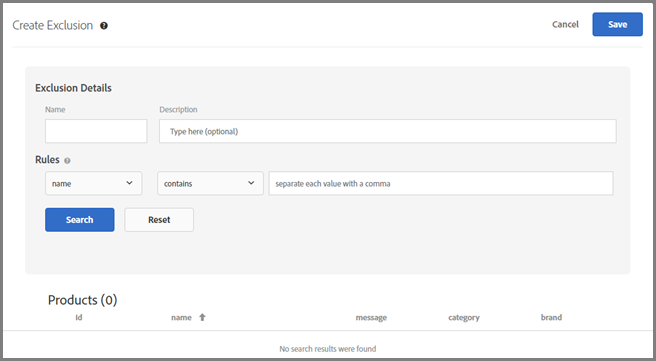
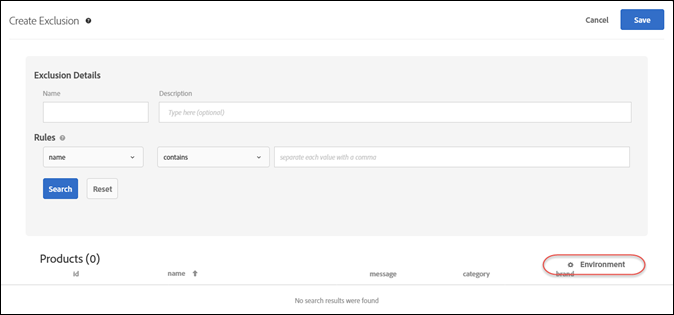
fingers crossed

diff --git a/help/c-recommendations/plan-implement.md b/help/c-recommendations/plan-implement.md
@@ -23,11 +23,11 @@ What you need to know before creating a [!DNL Recommendations] activity.
 
 | Step | Information | Details |
 |--- |--- |--- |
-|![Step 1](/help/c-recommendations/assets/step1_red.png)|JavaScript library|Each page requires a reference to  at.js  version 0.9.1 (or later) or  mbox.js  version 55 (or later). This implementation step is required on all pages where a  Target  activity will be used, and can include keys such as a product or category ID.<BR>For information about at.js, see [at.js Implementation](/help/c-implementing-target/c-implementing-target-for-client-side-web/t-mbox-download/c-target-atjs-implementation/target-atjs-implementation.md).<br>For more information about mbox.js, see [Mbox.js Implementation](/help/c-implementing-target/c-implementing-target-for-client-side-web/t-mbox-download/mbox-download.md).|
-|![Step 2](/help/c-recommendations/assets/step2_red.png)|Keys|The key determines the type of product or content that displays in your recommendations. For example, the key might be a product category. See [Base the Recommendation on a Recommendation Key](/help/c-recommendations/c-algorithms/create-new-algorithm.md#task_2B0ED54AFBF64C56916B6E1F4DC0DC3B).|
-|![Step 3](/help/c-recommendations/assets/step3_red.png)|Attributes|Attributes provide more specific information about the products you want to display. For example, you might want to show products within a certain price range, or items that meet an inventory threshold. Attributes can be provided in the mbox or through a [feed](/help/c-recommendations/c-products/feeds.md).<br>See [Inclusion Rules](/help/c-recommendations/c-algorithms/create-new-algorithm.md#task_28DB20F968B1451481D8E51BAF947079) and [Entity Attributes](/help/c-recommendations/c-products/entity-attributes.md).|
-|![Step 4](/help/c-recommendations/assets/step4_red.png)|Exclusions|Exclusions determine which specific items do not appear in your recommendations.<br>See [Exclusions](/help/c-recommendations/c-products/exclusions.md).|
-|![Step 5](/help/c-recommendations/assets/step5_red.png)|Purchase deals|Purchase details provide information about purchased items and the order when the purchase has been completed.|
+|![Step 1](/c-recommendations/assets/step1_red.png) |JavaScript library|Each page requires a reference to  at.js  version 0.9.1 (or later) or  mbox.js  version 55 (or later). This implementation step is required on all pages where a  Target  activity will be used, and can include keys such as a product or category ID.<BR>For information about at.js, see [at.js Implementation](/help/c-implementing-target/c-implementing-target-for-client-side-web/t-mbox-download/c-target-atjs-implementation/target-atjs-implementation.md).<br>For more information about mbox.js, see [Mbox.js Implementation](/help/c-implementing-target/c-implementing-target-for-client-side-web/t-mbox-download/mbox-download.md).|
+|![Step 2](/c-recommendations/assets/step2_red.png)|Keys|The key determines the type of product or content that displays in your recommendations. For example, the key might be a product category. See [Base the Recommendation on a Recommendation Key](/help/c-recommendations/c-algorithms/create-new-algorithm.md#task_2B0ED54AFBF64C56916B6E1F4DC0DC3B).|
+|![Step 3](/c-recommendations/assets/step3_red.png)|Attributes|Attributes provide more specific information about the products you want to display. For example, you might want to show products within a certain price range, or items that meet an inventory threshold. Attributes can be provided in the mbox or through a [feed](/help/c-recommendations/c-products/feeds.md).<br>See [Inclusion Rules](/help/c-recommendations/c-algorithms/create-new-algorithm.md#task_28DB20F968B1451481D8E51BAF947079) and [Entity Attributes](/help/c-recommendations/c-products/entity-attributes.md).|
+|![Step 4](/c-recommendations/assets/step4_red.png)|Exclusions|Exclusions determine which specific items do not appear in your recommendations.<br>See [Exclusions](/help/c-recommendations/c-products/exclusions.md).|
+|![Step 5](/c-recommendations/assets/step5_red.png)|Purchase deals|Purchase details provide information about purchased items and the order when the purchase has been completed.|
 
 ## Base Implementation {#concept_D1154A3FB0FB4467A29AD2BDD21C82D5}
 
@@ -216,6 +216,6 @@ The following options are available:
 |Custom Global Mbox|(Optional) Specify the custom global mbox used to serve [!DNL Target] activities. By default, the global mbox used by [!DNL Target}  is used for [!DNL Recommendations].<br>Note: This option is set on the [!DNL Target] [!UICONTROL Setup] page. Open [!DNL Target], then click [!UICONTROL Setup].|
 |Industry Vertical|The industry vertical is used to help categorize your recommendations criteria. This helps members of your team find criteria that make sense for a particular page, such as criteria that are best for the shopping cart page or for a media page.|
 |Filter Incompatible Criteria|Enable this option to show only those criteria where the selected page passes the required data. Not every criteria will run correctly on every page. The page or mbox needs to pass in `entity.id` or `entity.categoryId` for the current item/current category recommendations to be compatible. In general, it is best to show only compatible criteria. However, if you want incompatible criteria to be available for the activity, uncheck this option.<br>It is recommended that you disable this option if using a tag management solution.<br>For more information about this option, see [Recommendations FAQ](/help/c-recommendations/c-recommendations-faq/recommendations-faq.md).|
-|Default Host Group|Select your default host group. None means that your  Default Host Group for Reporting  setting in  Target Classic  is used for your default host group.<br>The host group provides the environment where the products are hosted. You can only preview from one given host group at a time. The numbers and update information that show in the Collection list all come from that host group. Likewise, the delivery depends on your host group.<br>If you don't see your products, make sure that you are using the correct host group. For example, if you set up your recommendation to use a staging environment and you set your host group to Staging, you might need to re-create your collections in the staging environment for the products to show.<br>To see which products are available in each environment, use Catalog Search with each environment.<br>For more information about host groups, see [Hosts](/help/administrating-target/hosts.md).|
+|Default Host Group|Select your default host group. None means that your Default Host Group for Reporting setting in Target Classic is used for your default host group.<br>The host group can be used to separate the available items in your catalog for different uses. For example, you can use host groups for Development and Production environments, different brands, or different geographies. By default, preview results in Catalog Search, Collections, and Exclusions are based on the default host group. (You can also select a different host group to preview results, by using the Environment filter.) By default, newly added items are available in all host groups unless an environment ID is specified when creating or updating the item. Delivered recommendations depend on the host group specified in the request.<br>If you don't see your products, make sure that you are using the correct host group. For example, if you set up your recommendation to use a staging environment and you set your host group to Staging, you might need to re-create your collections in the staging environment for the products to show. To see which products are available in each environment, use Catalog Search with each environment. You can also preview the contents of Recommendations collections and exclusions for a selected environment (host group).<br>**Note:** After changing the selected environment, you must click Search to update the returned results.<br>The [!UICONTROL Environment] filter is available from the following places in the [!DNL Target] UI:<ul><li>Catalog Search ([!UICONTROL Recommendations > Catalog Search)</li><li>Create Collection dialog box ([!UICONTROL Recommendations > Collections > Create New])</li><li>Update Collection dialog box ([!UICONTROL Recommendations > Collections > Edit])</li><li>Create Exclusion dialog box ([!UICONTROL Recommendations > Exclusions > Create New])</li><li>Update Exclusion dialog box ([!UICONTROL Recommendations > Exclusions > Edit])</li></ul>For more information, see [Hosts](/help/administrating-target/hosts.md).|
 |Thumbnail Base URL|Setting a base URL for your product catalog makes it possible to use relative URLs when specifying thumbnails of your products when passing in your thumbnail URL.<br>For example:<br>`"entity.thumbnailURL=/Images/Homepage/product1.jpg"`<br>sets a URL relative to the thumbnail base URL.|
 |Recommendation API Token|Use this token in Recommendations API calls, such as the Download API.|

diff --git a/help/r-release-notes/release-notes.md b/help/r-release-notes/release-notes.md
@@ -20,51 +20,26 @@ Be aware of the following important announcements:
 * [!DNL Target] and the [!DNL Adobe Marketing Cloud] will drop support for Microsoft Internet Explorer 11 starting in March 2019. This change affects [!DNL Target] authoring only; this change does not affect experience delivery. Please switch to Microsoft Edge or another browser. For more information, see [Supported browsers](/help/c-implementing-target/c-considerations-before-you-implement-target/supported-browsers.md).
 * Starting with the [!DNL Target] 18.4.1 release (April 25, 2018), [!DNL Target] had taken steps to move towards TLS 1.2 encryption. The final date to completely phase out support for TLS 1.0 encryption is **February 20, 2019**. With this change, [!DNL Adobe] will no longer collect data from end users with older devices or web browsers that do not support TLS 1.1 or later. We do not expect this to have a significant impact to customer data or reporting. Migrating to TLS 1.2 provides improved security. It is important that you go through the specifics and plan out the changes for a smooth transition. For more information, see [TLS (Transport Layer Security) Encryption Changes](/help/c-implementing-target/c-considerations-before-you-implement-target/tls-transport-layer-security-encryption.md).
 
-## Platform (November 15, 2018) {#section_484A56774E004282B98FFFF851E4E670}
+## [!DNL at.js] version 1.6.4 (January 11, 2019)
 
-<table id="table_7320E43397D2471FA313A9D6FC21E55F"> 
- <thead> 
-  <tr> 
-   <th colname="col1" class="entry"> Feature / Enhancement </th> 
-   <th colname="col2" class="entry"> Description </th> 
-  </tr>
- </thead>
- <tbody> 
-  <tr> 
-   <td colname="col1"> <p>at.js 1.6.3 </p> </td> 
-   <td colname="col2"> <p>at.js version 1.6.3 is now available. </p> <p> 
-     <ul id="ul_2C7CB74B1AAF4B52B6EB382977F7DC28"> 
-      <li id="li_07CF8EDB25E24A7AB9B7A0F3402BAEB1"> <p>Selectors are now CSS-escaped if they contain IDs or CSS classes that start with a digit, two hyphens, or a hyphen followed by a digit (for example #-123). (TNT-31061) </p> </li> 
-      <li id="li_6504E90D7C534A1BB9A2DE8510CE3B90"> <p>Fixed an issue introduced with at.js 1.6.2 where Visual Experience Composer (VEC) offers from different activities that apply to the same CSS selector did not respect activity priority. (TNT-31052) </p> </li> 
-      <li id="li_D347CA513F1240E4BF79D757287AB30C"> <p>Fixed an issue with timing out a promise in environments where there was no native support for promises. (TNT-30974) </p> </li> 
-      <li id="li_17F41A84CCFF41D7993E35DE10F87066"> <p>Issues are now correctly captured and reported via the content-rendering failed event. Previously, JavaScript might have been reported to have run successfully, even if that wasn't the case. (TNT-30599) </p> </li> 
-     </ul> </p> <p>For more information, see <a href="../c-implementing-target/c-implementing-target-for-client-side-web/target-atjs-versions.md#reference_DBB5EDB79EC44E558F9E08D4774A0F7A" format="dita" scope="local"> at.js Version Details</a>. </p> </td> 
-  </tr> 
- </tbody> 
-</table>
+[!DNL at.js] 1.6.4 is a maintenance release and addresses the following issue:
 
-## Target Standard/Premium 18.11.1 (November 12, 2018) {#section_6BBA8B1EE9D241C28E12856A375E97F6}
+* Fixed a race condition manifesting in Microsoft Internet Explorer 11 that caused duplicate offers to be applied.
 
-The [!DNL Target] Standard/Premium release on November 12 includes back-end enhancements, fixes, and changes. The [!UICONTROL Personalization Insights] reports will be available November 14.
+## [!DNL Target] Standard/Premium 19.1.1 (January 22, 2019) {#section_6BBA8B1EE9D241C28E12856A375E97F6}
 
-<table id="table_EF529199D1C741F7BDBC9C41A37B7D26"> 
- <thead> 
-  <tr> 
-   <th colname="col1" class="entry"> Feature / Enhancement </th> 
-   <th colname="col2" class="entry"> Description </th> 
-  </tr>
- </thead>
- <tbody> 
-  <tr> 
-   <td colname="col1" class="premium"> <p>Personalization Insights reports </p> <p> <p>Note:  Available November 14, 2018. </p> </p> </td> 
-   <td colname="col2"> <p>Two specialized reports are available to users of <span class="wintitle"> Automated Personalization (AP)</span> and <span class="wintitle"> Auto-Target (AT)</span> activities: </p> <p> 
-     <ul id="ul_C338AC34C57C49E1A8DFA471167EC40A"> 
-      <li id="li_2329BFC8CC524EBBA99C2F8EDC745B90"> <p><b><span class="wintitle"> Automated Segments</span>:</b> Different visitors respond differently to the offers/experiences in your AP/AT activity. This report shows how different automated segments defined by Target's personalization models responded to the offers/experiences in the activity. </p> </li> 
-      <li id="li_48556C9BAD48476DA00DD666F5265E2B"> <p><b><span class="wintitle"> Important Attributes</span>:</b> In different activities, different attributes are more, or less, important to how the model decides to personalize. This report shows the top attributes that influenced the model and their relative importance. </p> </li> 
-     </ul> </p> <p>See <a href="../c-reports/c-personalization-insights-reports/personalization-insights-reports.md#concept_A897070E1EDC403EB84CFB7A6ECAD767" format="dita" scope="local"> Personalization Insights reports</a>. </p> </td> 
-  </tr> 
- </tbody> 
-</table>
+This release includes the following features, changes and enhancements:
+
+(The issue numbers in parentheses are for internal Adobe use.)
+
+| Feature / Enhancement | Description |
+| --- | --- |
+| ![Target Premium badge](/help/assets/premium.png)<br/>[!UICONTROL Enterprise Permissions] support in [!DNL Target] APIs | [!DNL Adobe Target] APIs can now leverage the power of [!UICONTROL Enterprise Permissions] just like the [!DNL Target] UI. Currently, [!DNL Target] APIs deal only with the default workspace if you are leveraging [!UICONTROL Enterprise Permissions] features. However, you can now work with [!DNL Target] APIs (Activity, Offers, Audiences, and Reporting) across all workspaces. Resources (activities, audiences, and offers) created using these upgraded APIs will show up in respective workspaces in the [!DNL Target Standard/Premium] interface as well.<br/>**Note:** This feature will be available starting January 31, 2019 after the [!DNL Adobe] I/O APIs are updated. Support for [!UICONTROL Automated Personalization] (AP) activities will come in next release. |
+| ![Target Premium badge](/help/assets/premium.png)<br/>[!UICONTROL Recommendations]: filter collections and exclusions by environment (host group) | You can now preview the contents of [!UICONTROL Recommendations] collections and exclusions for a selected environment (host group).<br/>Previously, when you viewed a collection or exclusion, the displayed items contained were results for the default host group (specified in [!UICONTROL Recommendations > Settings > Default Host Group]).<br/>Now, when creating or updating a collection or exclusion, you can use the [!UICONTROL Environment] selector to choose the environment to preview results for. The new [!UICONTROL Environment] filter saves you time and effort because you no longer need to navigate to the [!UICONTROL Settings] page to select the appropriate default host group before creating or editing collections and exclusions.<br/>**Note:** After changing the selected environment, you must click [!UICONTROL Search] to update the returned results.<br/>The new [!UICONTROL Environment] filter is available from the following places in the [!DNL Target] UI:<ul><li>[!UICONTROL Catalog Search] ([!UICONTROL Recommendations > Catalog Search])</li><li>[!UICONTROL Create Collection] dialog box ([!UICONTROL Recommendations > Collections > Create New])</li><li>[!UICONTROL Update Collection] dialog box ([!UICONTROL Recommendations > Collections > Edit])</li><li>[!UICONTROL Create Exclusion] dialog box ([!UICONTROL Recommendations > Exclusions > Create New])</li><li>[!UICONTROL Update Exclusion] dialog box ([!UICONTROL Recommendations > Exclusions > Edit])</li></ul><br>For more information, see the following topics:<uL><li>[Collections](/c-recommendations/c-products/collections.md)</li><li>[Exclusions](/c-recommendations/c-products/exclusions.md)</li><li>[Catalog Search](/c-recommendations/c-products/catalog-search.md)</li><li>[Settings](/c-recommendations/plan-implement.md#concept_C1E1E2351413468692D6C21145EF0B84)</li><li>[Recommendations: filter collections and exclusions by environment (host group)](/administrating-target/hosts.md)</li></ul>(TGT-20622)</ul>|
+
+**Enhancement, fixes, and changes**
+
+* You are now instructed to re-authenticate when your session expires while reviewing a report. After you log in again, you are directed back to the report. (TGT-32723)
 
 ## Release Notes for Other Adobe Target Capabilities {#section_9EB425262A1947D18953F98CF3D4EE71}
 

diff --git a/help/r-release-notes/release-notes-for-previous-releases.md b/help/r-release-notes/release-notes-for-previous-releases.md
@@ -13,23 +13,63 @@ uuid: a1f0ddae-39f1-4e28-bf86-03e82e3cb91e
 
 Release notes for previous Target releases, including release notes for Target Standard/Premium, the Target platform, and the Target Javascript libraries (at.js and mbox.js). Release notes are arraigned in descending order by month and year of release.
 
-## Release notes for previous releases {#topic_607D0324907E472EA3682033A27B5F07}
-
-Release notes for previous Target releases, including release notes for Target Standard/Premium, the Target platform, and the Target Javascript libraries (at.js and mbox.js). Release notes are arraigned in descending order by month and year of release.
-
 >[!NOTE]
 >
 >See [Target release notes (current)](../r-release-notes/release-notes.md#reference_8FE40B43A5A34DDF8F26A53D55EE036A) for information about the current month's Target releases (platform and Target Standard/Premium).
 
 ## Release notes - 2018 {#reference_36ACC83E135A41F28104C44755C26D5B}
 
+### Platform (November 15, 2018) {#section_484A56774E004282B98FFFF851E4E670}
+
+<table id="table_7320E43397D2471FA313A9D6FC21E55F"> 
+ <thead> 
+  <tr> 
+   <th colname="col1" class="entry"> Feature / Enhancement </th> 
+   <th colname="col2" class="entry"> Description </th> 
+  </tr>
+ </thead>
+ <tbody> 
+  <tr> 
+   <td colname="col1"> <p>at.js 1.6.3 </p> </td> 
+   <td colname="col2"> <p>at.js version 1.6.3 is now available. </p> <p> 
+     <ul id="ul_2C7CB74B1AAF4B52B6EB382977F7DC28"> 
+      <li id="li_07CF8EDB25E24A7AB9B7A0F3402BAEB1"> <p>Selectors are now CSS-escaped if they contain IDs or CSS classes that start with a digit, two hyphens, or a hyphen followed by a digit (for example #-123). (TNT-31061) </p> </li> 
+      <li id="li_6504E90D7C534A1BB9A2DE8510CE3B90"> <p>Fixed an issue introduced with at.js 1.6.2 where Visual Experience Composer (VEC) offers from different activities that apply to the same CSS selector did not respect activity priority. (TNT-31052) </p> </li> 
+      <li id="li_D347CA513F1240E4BF79D757287AB30C"> <p>Fixed an issue with timing out a promise in environments where there was no native support for promises. (TNT-30974) </p> </li> 
+      <li id="li_17F41A84CCFF41D7993E35DE10F87066"> <p>Issues are now correctly captured and reported via the content-rendering failed event. Previously, JavaScript might have been reported to have run successfully, even if that wasn't the case. (TNT-30599) </p> </li> 
+     </ul> </p> <p>For more information, see <a href="../c-implementing-target/c-implementing-target-for-client-side-web/target-atjs-versions.md#reference_DBB5EDB79EC44E558F9E08D4774A0F7A" format="dita" scope="local"> at.js Version Details</a>. </p> </td> 
+  </tr> 
+ </tbody> 
+</table>
+
+### Target Standard/Premium 18.11.1 (November 12, 2018) {#section_6BBA8B1EE9D241C28E12856A375E97F6}
+
+The [!DNL Target] Standard/Premium release on November 12 includes back-end enhancements, fixes, and changes. The [!UICONTROL Personalization Insights] reports will be available November 14.
+
+<table id="table_EF529199D1C741F7BDBC9C41A37B7D26"> 
+ <thead> 
+  <tr> 
+   <th colname="col1" class="entry"> Feature / Enhancement </th> 
+   <th colname="col2" class="entry"> Description </th> 
+  </tr>
+ </thead>
+ <tbody> 
+  <tr> 
+   <td colname="col1" class="premium"> <p>Personalization Insights reports </p> <p> <p>Note:  Available November 14, 2018. </p> </p> </td> 
+   <td colname="col2"> <p>Two specialized reports are available to users of <span class="wintitle"> Automated Personalization (AP)</span> and <span class="wintitle"> Auto-Target (AT)</span> activities: </p> <p> 
+     <ul id="ul_C338AC34C57C49E1A8DFA471167EC40A"> 
+      <li id="li_2329BFC8CC524EBBA99C2F8EDC745B90"> <p><b><span class="wintitle"> Automated Segments</span>:</b> Different visitors respond differently to the offers/experiences in your AP/AT activity. This report shows how different automated segments defined by Target's personalization models responded to the offers/experiences in the activity. </p> </li> 
+      <li id="li_48556C9BAD48476DA00DD666F5265E2B"> <p><b><span class="wintitle"> Important Attributes</span>:</b> In different activities, different attributes are more, or less, important to how the model decides to personalize. This report shows the top attributes that influenced the model and their relative importance. </p> </li> 
+     </ul> </p> <p>See <a href="../c-reports/c-personalization-insights-reports/personalization-insights-reports.md#concept_A897070E1EDC403EB84CFB7A6ECAD767" format="dita" scope="local"> Personalization Insights reports</a>. </p> </td> 
+  </tr> 
+ </tbody> 
+</table>
+
 ### Target Standard/Premium 18.10.1 (October 24, 2018) {#section_FA37BF4E840B424E8BC4791D7234FE2A}
 
 This release includes the following features and enhancements:
 
->[!NOTE]
->
->The issue numbers in parentheses are for internal Adobe use.
+(The issue numbers in parentheses are for internal Adobe use.)
 
 <table id="table_B1911F55CCE1428881D258380A8254A9"> 
  <thead> 
@@ -320,7 +360,7 @@ This release includes the following enhancement:
 
   For more information, see [Mobile](../c-target/c-audiences/c-target-rules/mobile.md#concept_2A794199DC1A4D349FFFBC7DCF1FEB89). (TNT-26714 & TNT-28288)
 
-## Target Download API (June 5, 2018) {#section_B8729DA10F18433C8D8E01B04F308ED2}
+### Target Download API (June 5, 2018) {#section_B8729DA10F18433C8D8E01B04F308ED2}
 
 You can use the recommendations download API to download your recommendations in a .CSV file that can be viewed in a spreadsheet or text editor. For improved security, starting on **June 5, 2018**, Target will block HTTP requests and allow only HTTPS requests.
 
@@ -2865,7 +2905,7 @@ This release includes the following new features:
 
 * Fixed an error that resulted in removed items continuing to be displayed.
 
-## Adobe Target Standard 14.5 (May 28, 2014) {#section_530EAB9376414D4989CA0740361DDCC2}
+### Adobe Target Standard 14.5 (May 28, 2014) {#section_530EAB9376414D4989CA0740361DDCC2}
 
 This release includes the following bug fixes:
 

diff --git a/help/r-release-notes/target-release-notes.md b/help/r-release-notes/target-release-notes.md
@@ -36,12 +36,12 @@ Be aware of the following important announcements:
 
 This release includes the following features, changes and enhancements:
 
-Note: The issue numbers in parentheses are for internal Adobe use.
+(The issue numbers in parentheses are for internal Adobe use.)
 
 | Feature / Enhancement | Description |
 | --- | --- |
 | ![Target Premium badge](/help/assets/premium.png)<br/>[!UICONTROL Enterprise Permissions] support in [!DNL Target] APIs | [!DNL Adobe Target] APIs can now leverage the power of [!UICONTROL Enterprise Permissions] just like the [!DNL Target] UI. Currently, [!DNL Target] APIs deal only with the default workspace if you are leveraging [!UICONTROL Enterprise Permissions] features. However, you can now work with [!DNL Target] APIs (Activity, Offers, Audiences, and Reporting) across all workspaces. Resources (activities, audiences, and offers) created using these upgraded APIs will show up in respective workspaces in the [!DNL Target Standard/Premium] interface as well.<br/>**Note:** This feature will be available starting January 31, 2019 after the [!DNL Adobe] I/O APIs are updated. Support for [!UICONTROL Automated Personalization] (AP) activities will come in next release. |
-| ![Target Premium badge](/help/assets/premium.png)<br/>[!UICONTROL Recommendations]: filter collections and exclusions by environment (host group) | You can now preview the contents of [!UICONTROL Recommendations] collections and exclusions for a selected environment (host group).<br/>Previously, when you viewed a collection or exclusion, the displayed items contained were results for the default host group (specified in [!UICONTROL Recommendations > Settings > Default Host Group]).<br/>Now, when creating or updating a collection or exclusion, you can use the [!UICONTROL Environment] selector to choose the environment to preview results for. The new [!UICONTROL Environment] filter saves you time and effort because you no longer need to navigate to the [!UICONTROL Settings] page to select the appropriate default host group before creating or editing collections and exclusions.<br/>**Note:** After changing the selected environment, you must click [!UICONTROL Search] to update the returned results.<br/>The new [!UICONTROL Environment] filter is available from the following places in the [!DNL Target] UI:<ul><li>[!UICONTROL Create Collection] dialog box ([!UICONTROL Recommendations > Collections > Create New])</li><li>[!UICONTROL Update Collection] dialog box ([!UICONTROL Recommendations > Collections > Edit])</li><li>[!UICONTROL Create Exclusion] dialog box ([!UICONTROL Recommendations > Exclusions > Create New])</li><li>[!UICONTROL Update Exclusion] dialog box ([!UICONTROL Recommendations > Exclusions > Edit])</li></ul><br>(TGT-20622) |
+| ![Target Premium badge](/help/assets/premium.png)<br/>[!UICONTROL Recommendations]: filter collections and exclusions by environment (host group) | You can now preview the contents of [!UICONTROL Recommendations] collections and exclusions for a selected environment (host group).<br/>Previously, when you viewed a collection or exclusion, the displayed items contained were results for the default host group (specified in [!UICONTROL Recommendations > Settings > Default Host Group]).<br/>Now, when creating or updating a collection or exclusion, you can use the [!UICONTROL Environment] selector to choose the environment to preview results for. The new [!UICONTROL Environment] filter saves you time and effort because you no longer need to navigate to the [!UICONTROL Settings] page to select the appropriate default host group before creating or editing collections and exclusions.<br/>**Note:** After changing the selected environment, you must click [!UICONTROL Search] to update the returned results.<br/>The new [!UICONTROL Environment] filter is available from the following places in the [!DNL Target] UI:<ul><li>[!UICONTROL Catalog Search] ([!UICONTROL Recommendations > Catalog Search])</li><li>[!UICONTROL Create Collection] dialog box ([!UICONTROL Recommendations > Collections > Create New])</li><li>[!UICONTROL Update Collection] dialog box ([!UICONTROL Recommendations > Collections > Edit])</li><li>[!UICONTROL Create Exclusion] dialog box ([!UICONTROL Recommendations > Exclusions > Create New])</li><li>[!UICONTROL Update Exclusion] dialog box ([!UICONTROL Recommendations > Exclusions > Edit])</li></ul><br>For more information, see the following topics:<uL><li>[Collections](/c-recommendations/c-products/collections.md)</li><li>[Exclusions](/c-recommendations/c-products/exclusions.md)</li><li>[Catalog Search](/c-recommendations/c-products/catalog-search.md)</li><li>[Settings](/c-recommendations/plan-implement.md#concept_C1E1E2351413468692D6C21145EF0B84)</li><li>[Recommendations: filter collections and exclusions by environment (host group)](/administrating-target/hosts.md)</li></ul>(TGT-20622)</ul>|
 
 **Enhancement, fixes, and changes**
 

diff --git a/help/administrating-target/hosts.md b/help/administrating-target/hosts.md
@@ -188,12 +188,6 @@ You can delete an environment when it is no longer needed.
 
 Best practices for managing and troubleshooting hosts in [!DNL Adobe Target].
 
-<!-- 
-
-ov2/c_hosts_best-practices-and-troubleshooting.xml
-
- -->
-
 Try the following troubleshooting tips if you experience problems with your hosts:
 
 **Host does not appear in mbox list for your account.**
@@ -208,4 +202,28 @@ A domain appears in this list if a call to [!DNL Target] is made from the domain
 
 **My mbox call returns /&#42; no display - unauthorized mbox host &#42;/.**
 
-If an mbox call is made on an unauthorized host, the call will respond with /&#42; no display - unauthorized mbox host &#42;/. 
+If an mbox call is made on an unauthorized host, the call will respond with /&#42; no display - unauthorized mbox host &#42;/.
+
+## Recommendations: filter collections and exclusions by environment (host group)
+
+![Premium badge](/assets/premium.png)
+
+You can preview the contents of Recommendations collections and exclusions for a selected environment (host group).
+
+>[!NOTE]
+>Recommendations activities are available as part of the Target Premium solution. They are not available in Target Standard without a Target Premium license.
+
+The host group can be used to separate the available items in your catalog for different uses. For example, you can use host groups for Development and Production environments, different brands, or different geographies. By default, preview results in Catalog Search, Collections, and Exclusions are based on the default host group. (You can also select a different host group to preview results, by using the Environment filter.) By default, newly added items are available in all host groups unless an environment ID is specified when creating or updating the item. Delivered recommendations depend on the host group specified in the request.
+
+If you don't see your products, make sure that you are using the correct host group. For example, if you set up your recommendation to use a staging environment and you set your host group to Staging, you might need to re-create your collections in the staging environment for the products to show. To see which products are available in each environment, use Catalog Search with each environment. You can also preview the contents of Recommendations collections and exclusions for a selected environment (host group).
+
+>[!NOTE]
+>After changing the selected environment, you must click Search to update the returned results.
+
+The Environment filter is available from the following places in the Target UI:
+
+* Catalog Search ([!UICONTROL Recommendations > Catalog Search])
+* Create Collection dialog box ([!UICONTROL Recommendations > Collections > Create New])
+* Update Collection dialog box ([!UICONTROL Recommendations > Collections > Edit])
+* Create Exclusion dialog box ([!UICONTROL Recommendations > Exclusions > Create New])
+* Update Exclusion dialog box ([!UICONTROL Recommendations > Exclusions > Edit])

diff --git a/help/c-recommendations/c-products/collections.md b/help/c-recommendations/c-products/collections.md
@@ -41,17 +41,9 @@ When you are creating or editing a [!DNL Recommendations] activity, the collecti
 
 Create a collection to organize the products you want to show in your recommendations.
 
-<!-- 
-
-recs/t_create_collection.xml
-
- -->
-
 1. Click **[!UICONTROL Recommendations]** > **[!UICONTROL Collections]** to display the list of existing collections.
 
-   >[!NOTE]
-   >
-   >The "Number of Items" reported for each collection on the [!UICONTROL Collections] list view is the number of products matching the rules for that collection within the configured default Recommendations host group (environment). See [Settings](../../c-recommendations/plan-implement.md#concept_C1E1E2351413468692D6C21145EF0B84) to change the default host group.
+   The "Number of Items" reported for each collection on the [!UICONTROL Collections] list view is the number of products matching the rules for that collection within the configured default Recommendations [host group](/administrating-target/hosts.md) (environment). See [Settings](../../c-recommendations/plan-implement.md#concept_C1E1E2351413468692D6C21145EF0B84) to change the default host group.
 
    ![](assets/collections_list.png)
 
@@ -59,14 +51,20 @@ recs/t_create_collection.xml
 
    ![Step Result](assets/CreateCollection.png)
 
+1. (Conditional) Choose an environment from the **[!UICONTROL Environment]** filter while creating (or updating) a collection to preview the contents of the collection in that environment. By default, results from the default host group are displayed.
+
+   ![Create Collection](/c-recommendations/c-products/assets/CreateCollection.png)
+
 1. Type a **[!UICONTROL Name]** for the collection.
 
-   You can also enter an optional **[!UICONTROL Description]**. 
+   You can also enter an optional **[!UICONTROL Description]**.
+
 1. Set the rules used to build the collection.
 
    For example, your collection might be built around a product ID or category, margin, or any other parameter in the list.
 
-   You can add rules to use multiple parameters to define a collection. Multiple rules are joined with an AND. All specified rules must be matched for the collection to apply. 
+   You can add rules to use multiple parameters to define a collection. Multiple rules are joined with an AND. All specified rules must be matched for the collection to apply.
+
 1. Click **[!UICONTROL Save]**.
 You can also create collections using Advanced Search on the Catalog Search page ([!UICONTROL Recommendations] > [!UICONTROL Catalog Search] > [!UICONTROL Advanced Search]). After creating a search using "id > contains," for example, you can then click [!UICONTROL Save As] > [!UICONTROL Collection].
 

diff --git a/help/c-recommendations/c-products/exclusions.md b/help/c-recommendations/c-products/exclusions.md
@@ -19,9 +19,7 @@ Create an exclusion list to prevent items from being recommended.
 
 1. Click **[!UICONTROL Recommendations]** > **[!UICONTROL Exclusions]** to display the list of existing exclusions.
 
-   >[!NOTE]
-   >
-   >The "Number of Items" reported for each exclusion on the [!UICONTROL Exclusions] list view is the number of products matching the rules for that exclusion within the configured default Recommendations host group (environment). See [Settings](../../c-recommendations/plan-implement.md#concept_C1E1E2351413468692D6C21145EF0B84) to change the default host group.
+   The "Number of Items" reported for each exclusion on the [!UICONTROL Exclusions] list view is the number of products matching the rules for that exclusion within the configured default Recommendations [host group](/administrating-target/hosts.md) (environment). See [Settings](../../c-recommendations/plan-implement.md#concept_C1E1E2351413468692D6C21145EF0B84) to change the default host group.
 
    ![](assets/exclusions_list.png)
 
@@ -29,10 +27,16 @@ Create an exclusion list to prevent items from being recommended.
 
    ![Step Result](assets/CreateExclusion.png)
 
+1. (Conditional) Choose an environment from the **[!UICONTROL Environment]** filter while creating (or updating) an exclusion to preview the contents of the exclusion in that environment. By default, results from the default host group are displayed.
+
+   ![Create Exclusion](/c-recommendations/c-products/assets/CreateExclusion.png)
+
 1. Type an exclusion **[!UICONTROL Name]** and enter an optional description.
+
 1. Use the rule builder to create your exclusions.
 
-   Select a parameter in the Rules list, select an operator, and then enter one or more values to identify the products. Separate multiple values with commas. 
+   Select a parameter in the Rules list, select an operator, and then enter one or more values to identify the products. Separate multiple values with commas.
+
 1. Click **[!UICONTROL Save]**.
 
    You can also create exclusions using Advanced Search on the Catalog Search page ( [!UICONTROL Recommendations] > [!UICONTROL Catalog Search] > [!UICONTROL Advanced Search]). After creating a search using "id > contains," for example, you can then click [!UICONTROL Save As] > [!UICONTROL Exclusion]. 

diff --git a/help/c-recommendations/c-products/catalog-search.md b/help/c-recommendations/c-products/catalog-search.md
@@ -21,7 +21,7 @@ You can refine your search by selecting a search option from the options menu th
 
 **[!UICONTROL ALL]** searches across all of the other search criteria, using OR logic.
 
-In the search results, you click Settings to specify the production host group environment whose catalog you are displaying. An item can exist only once within an environment. You can also scroll through the items in the search results to view thumbnails and other product information.
+In the search results, you click the **[UICONTROL Environment]** filter to specify the production host group environment whose catalog you are displaying. You can also scroll through the items in the search results to view thumbnails and other product information.
 
 The number that displays next to "Products" is the number of products that match the search term, out of the total available in the specified environment.
 
